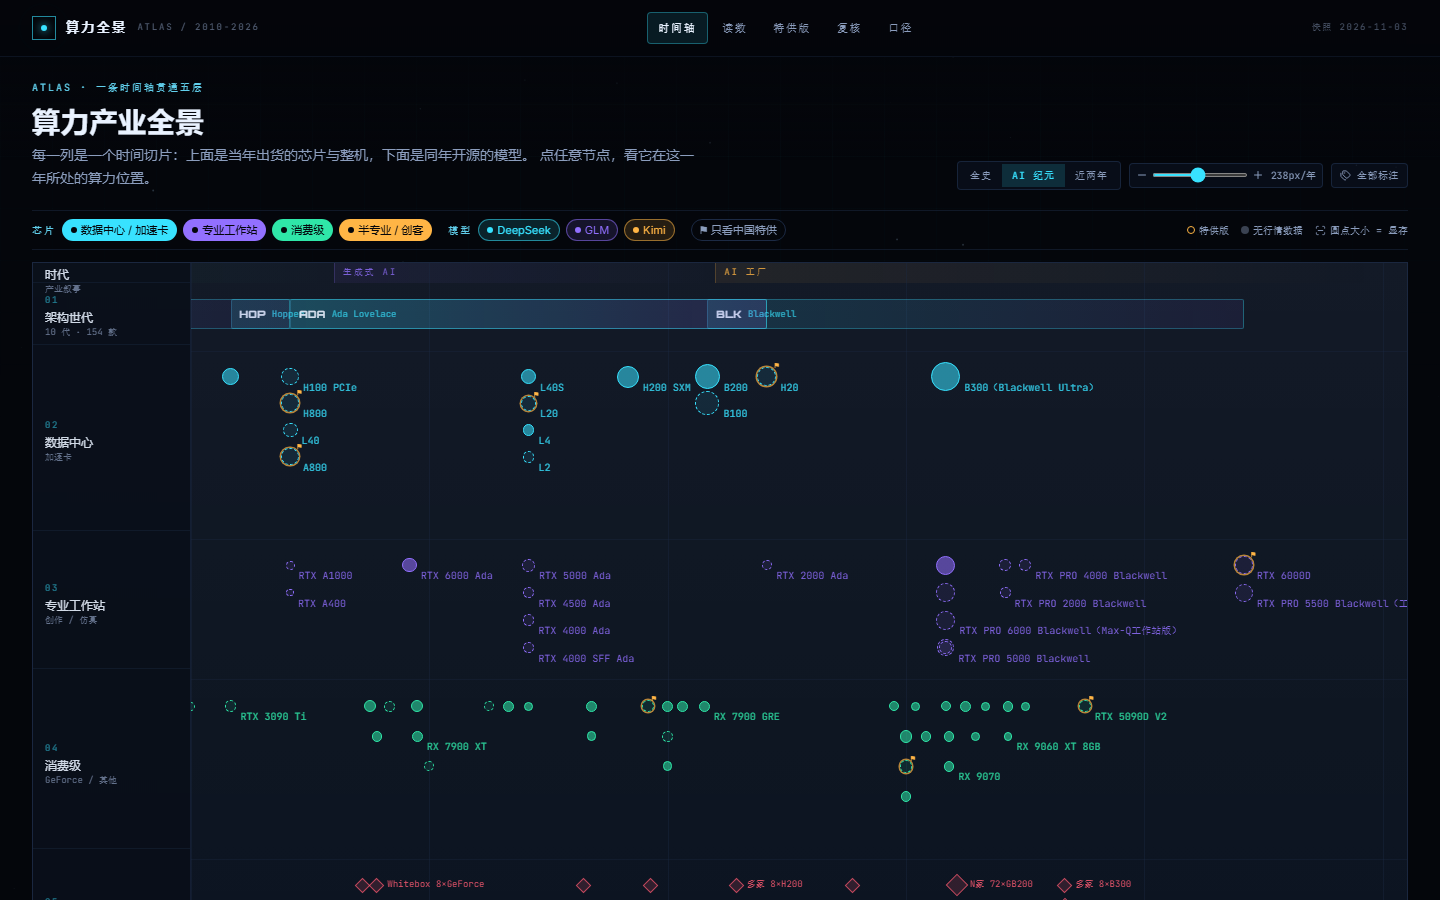
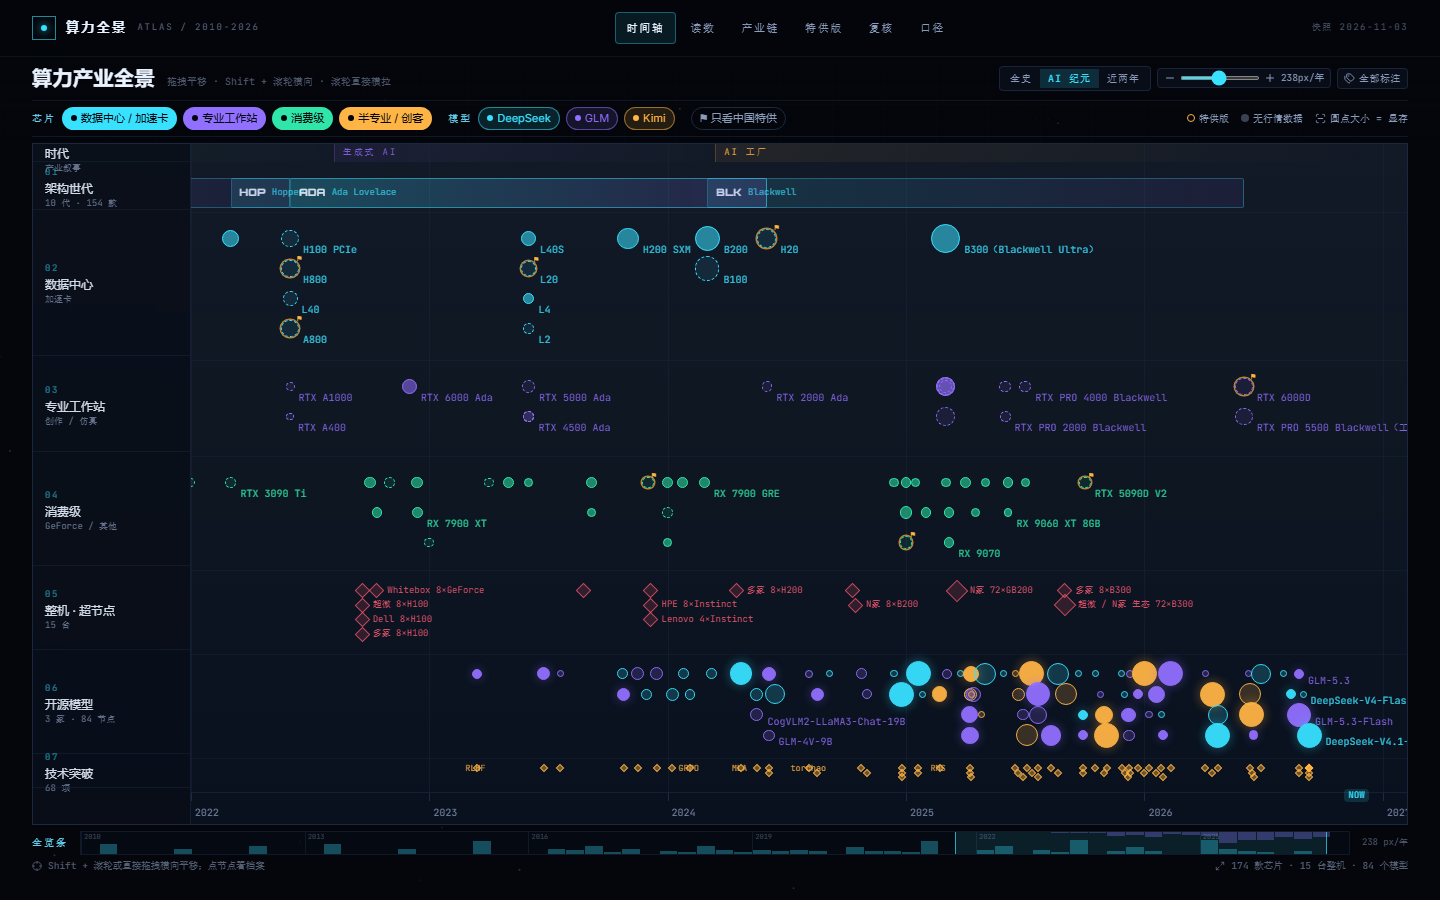
feat(site): 子页去掉页脚；时间轴压到一屏并支持拖拽/Shift+滚轮横移
- Shell：页脚只在封面渲染，各章节以内容收尾
- 时间轴条带高度 966 → 680（era/arch/dc/ws/gc/sys/models/bt/ruler 全部重排），
  表头压成单行，1440x900 下 document.scrollHeight == 900，不需要竖滚
- 横向平移：鼠标拖拽（位移 >4px 才算拖拽，松手吞掉这次 click，避免误开档案）、
  Shift+滚轮、触控板 deltaX；页面本身不可竖滚时普通滚轮也转横向
- 隐藏滚动条的光标改成 grab / grabbing
- 新增 scripts/atlas-pan.mjs：整页高度、滚轮、拖拽、拖拽后不误点、单击仍开档案

diff --git a/src/components/Atlas.tsx b/src/components/Atlas.tsx
@@ -36,17 +36,17 @@ export interface Filters {
 }
 
 const BAND = {
-  era: { top: 0, h: 20 },
-  arch: { top: 24, h: 58 },
-  dc: { top: 88, h: 180 },
-  ws: { top: 276, h: 130 },
-  gc: { top: 416, h: 170 },
-  sys: { top: 596, h: 118 },
-  models: { top: 724, h: 124 },
-  bt: { top: 856, h: 50 },
-  ruler: { top: 914, h: 46 },
+  era: { top: 0, h: 18 },
+  arch: { top: 22, h: 44 },
+  dc: { top: 68, h: 144 },
+  ws: { top: 216, h: 92 },
+  gc: { top: 312, h: 110 },
+  sys: { top: 426, h: 80 },
+  models: { top: 510, h: 100 },
+  bt: { top: 614, h: 30 },
+  ruler: { top: 648, h: 32 },
 }
-const H = 966
+const H = 680
 const MAXR = 15
 
 const ERAS = [
@@ -127,6 +127,9 @@ export function Atlas({
   const [preset, setPreset] = useState<string>('ai')
   const [hover, setHover] = useState<{ x: number; y: number; label: string; sub: string; tone: string } | null>(null)
   const [win, setWin] = useState({ left: 0, width: 1 })
+  const drag = useRef<{ x: number; left: number; moved: boolean } | null>(null)
+  const suppressClick = useRef(false)
+  const [dragging, setDragging] = useState(false)
 
   const plotW = Math.round((DOMAIN[1] - DOMAIN[0]) * ppyear) + 40
 
@@ -163,6 +166,65 @@ export function Atlas({
   useEffect(() => {
     applyPreset('ai')
   }, [applyPreset])
+
+  /**
+   * 横向平移：Shift + 滚轮、触控板横划、以及页面本身不可竖滚时的普通滚轮。
+   * 用非 passive 监听才能 preventDefault，避免同时触发页面滚动。
+   */
+  useEffect(() => {
+    const el = scrollRef.current
+    if (!el) return
+    const onWheel = (e: WheelEvent) => {
+      const max = el.scrollWidth - el.clientWidth
+      if (max <= 0) return
+      const horizontal = Math.abs(e.deltaX) > Math.abs(e.deltaY)
+      const pageScrolls = document.documentElement.scrollHeight > window.innerHeight + 4
+      const wantPan = horizontal || e.shiftKey || !pageScrolls
+      if (!wantPan) return
+      const delta = horizontal ? e.deltaX : e.deltaY
+      if (!delta) return
+      e.preventDefault()
+      el.scrollLeft = clamp(el.scrollLeft + delta, 0, max)
+    }
+    el.addEventListener('wheel', onWheel, { passive: false })
+    return () => el.removeEventListener('wheel', onWheel)
+  }, [])
+
+  /** 按住拖动平移；位移超过 4px 才算拖拽，松手后吞掉这次 click，避免误开档案。 */
+  useEffect(() => {
+    const move = (e: PointerEvent) => {
+      const d = drag.current
+      const el = scrollRef.current
+      if (!d || !el) return
+      const dx = e.clientX - d.x
+      if (!d.moved && Math.abs(dx) > 4) {
+        d.moved = true
+        setDragging(true)
+        setHover(null)
+      }
+      if (!d.moved) return
+      e.preventDefault()
+      el.scrollLeft = clamp(d.left - dx, 0, el.scrollWidth - el.clientWidth)
+    }
+    const end = () => {
+      if (drag.current?.moved) {
+        suppressClick.current = true
+        window.setTimeout(() => {
+          suppressClick.current = false
+        }, 0)
+      }
+      drag.current = null
+      setDragging(false)
+    }
+    window.addEventListener('pointermove', move, { passive: false })
+    window.addEventListener('pointerup', end)
+    window.addEventListener('pointercancel', end)
+    return () => {
+      window.removeEventListener('pointermove', move)
+      window.removeEventListener('pointerup', end)
+      window.removeEventListener('pointercancel', end)
+    }
+  }, [])
 
   /** Overview strip: current window as a fraction of the full 2010—2027 span. */
   const syncWindow = () => {
@@ -218,7 +280,7 @@ export function Atlas({
         BAND.models,
         ppyear,
         (m: Model) => clamp(2.6 + Math.log10((m.paramsB ?? 1) + 1) * 3.1, 3, 11) + (m.tier === 'flagship' ? 1.4 : 0),
-        { maxRows: 5, gap: 3, padTop: 12 },
+        { maxRows: 4, gap: 3, padTop: 10 },
       ),
     [ppyear],
   )
@@ -364,26 +426,24 @@ export function Atlas({
     selectedDate === null ? null : (yearFraction(selectedDate) - DOMAIN[0]) * ppyear
 
   return (
-    <section id="atlas" className="relative mx-auto w-full max-w-[1680px] px-4 pb-10 lg:px-8">
-      <header className="mb-5 flex flex-wrap items-end justify-between gap-4">
-        <div>
-          <div className="label-hud mb-2">ATLAS · 一条时间轴贯通五层</div>
-          <h1 className="font-display text-2xl font-semibold tracking-wide text-snow lg:text-[28px]">
+    <section id="atlas" className="relative mx-auto w-full max-w-[1680px] px-4 pb-2 lg:px-8">
+      <header className="mb-2 flex flex-wrap items-center justify-between gap-x-4 gap-y-2">
+        <div className="flex min-w-0 flex-wrap items-baseline gap-x-3 gap-y-1">
+          <h1 className="font-display text-lg font-semibold tracking-wide text-snow lg:text-xl">
             算力产业全景
           </h1>
-          <p className="mt-1 max-w-2xl text-sm leading-relaxed text-fog">
-            每一列是一个时间切片：上面是当年出货的芯片与整机，下面是同年开源的模型。
-            点任意节点，看它在这一年所处的算力位置。
-          </p>
+          <span className="hidden font-mono text-[10px] text-fog/55 md:inline">
+            拖拽平移 · Shift + 滚轮横向 · 滚轮直接横拉
+          </span>
         </div>
-        <div className="flex flex-wrap items-center gap-2">
+        <div className="flex flex-wrap items-center gap-1.5">
           <div className="flex rounded-sm border border-edge/80 bg-hull/60 p-0.5">
             {PRESETS.map((p) => (
               <button
                 key={p.id}
                 onClick={() => applyPreset(p.id)}
                 className={cn(
-                  'px-2.5 py-1 font-mono text-[10px] tracking-widest transition-colors',
+                  'px-2 py-0.5 font-mono text-[10px] tracking-widest transition-colors',
                   preset === p.id ? 'bg-cyan/15 text-cyan' : 'text-fog hover:text-snow',
                 )}
               >
@@ -391,7 +451,7 @@ export function Atlas({
               </button>
             ))}
           </div>
-          <div className="flex items-center gap-1 rounded-sm border border-edge/80 bg-hull/60 px-1.5 py-1">
+          <div className="flex items-center gap-1 rounded-sm border border-edge/80 bg-hull/60 px-1.5 py-0.5">
             <button
               aria-label="缩小时间轴"
               onClick={() => zoomTo(ppyear / 1.35)}
@@ -406,7 +466,7 @@ export function Atlas({
               max={460}
               value={Math.round(ppyear)}
               onChange={(e) => zoomTo(Number(e.target.value))}
-              className="h-1 w-24 accent-cyan"
+              className="h-1 w-20 accent-cyan"
             />
             <button
               aria-label="放大时间轴"
@@ -415,12 +475,12 @@ export function Atlas({
             >
               <Plus size={12} />
             </button>
-            <span className="num w-12 text-right text-[10px] text-fog">{Math.round(ppyear)}px/年</span>
+            <span className="num w-11 text-right text-[9.5px] text-fog">{Math.round(ppyear)}px/年</span>
           </div>
           <button
             onClick={() => setFilters({ ...filters, labels: !filters.labels })}
             className={cn(
-              'flex items-center gap-1.5 rounded-sm border px-2 py-1 font-mono text-[10px] tracking-wider transition-colors',
+              'flex items-center gap-1 rounded-sm border px-1.5 py-0.5 font-mono text-[10px] tracking-wider transition-colors',
               filters.labels
                 ? 'border-cyan/60 bg-cyan/10 text-cyan'
                 : 'border-edge/80 bg-hull/60 text-fog hover:text-snow',
@@ -432,7 +492,7 @@ export function Atlas({
       </header>
 
       {/* filter bar */}
-      <div className="mb-3 flex flex-wrap items-center gap-x-4 gap-y-2 border-y border-edge/50 py-2">
+      <div className="mb-1.5 flex flex-wrap items-center gap-x-4 gap-y-1.5 border-y border-edge/50 py-1.5">
         <div className="flex items-center gap-1.5">
           <span className="label-hud">芯片</span>
           {(Object.keys(TIER_META) as Tier[]).filter((t) => t !== 'other').map((t) => {
@@ -547,7 +607,22 @@ export function Atlas({
         {/* scrollable plot */}
         <div
           ref={scrollRef}
-          className="no-bar relative flex-1 overflow-x-auto overflow-y-hidden"
+          className={cn(
+            'no-bar relative flex-1 overflow-x-auto overflow-y-hidden',
+            dragging ? 'cursor-grabbing select-none' : 'cursor-grab',
+          )}
+          onPointerDown={(e) => {
+            const el = scrollRef.current
+            if (!el || e.pointerType !== 'mouse' || e.button !== 0) return
+            if (el.scrollWidth <= el.clientWidth + 2) return
+            drag.current = { x: e.clientX, left: el.scrollLeft, moved: false }
+          }}
+          onClickCapture={(e) => {
+            if (!suppressClick.current) return
+            suppressClick.current = false
+            e.preventDefault()
+            e.stopPropagation()
+          }}
           onMouseLeave={() => setHover(null)}
           onScroll={syncWindow}
         >
@@ -878,10 +953,10 @@ export function Atlas({
         </div>
       </div>
 
-      <div className="mt-2 flex items-center gap-3">
+      <div className="mt-1.5 flex items-center gap-3">
         <span className="label-hud hidden shrink-0 sm:block">全览条</span>
         <div
-          className="group relative h-7 flex-1 cursor-crosshair overflow-hidden border border-edge/50 bg-abyss/60"
+          className="group relative h-6 flex-1 cursor-crosshair overflow-hidden border border-edge/50 bg-abyss/60"
           onClick={jumpTo}
           role="presentation"
           title="点击跳到对应年份"
@@ -925,13 +1000,13 @@ export function Atlas({
         </span>
       </div>
 
-      <div className="mt-2 flex flex-wrap items-center justify-between gap-2 font-mono text-[10px] text-fog/70">
+      <div className="mt-1 flex flex-wrap items-center justify-between gap-2 font-mono text-[9.5px] text-fog/60">
         <span className="flex items-center gap-1.5">
-          <Crosshair size={11} /> 时间轴横向滚动；节点可点击，右侧看档案
+          <Crosshair size={10} /> Shift + 滚轮或直接拖拽横向平移；点节点看档案
         </span>
         <span className="flex items-center gap-1.5">
-          <Maximize2 size={11} /> 共 {atlas.products.length + atlas.extras.length} 款芯片 · {atlas.servers.length} 台整机 ·{' '}
-          {atlas.models.length} 个模型
+          <Maximize2 size={10} /> {atlas.products.length + atlas.extras.length} 款芯片 ·{' '}
+          {atlas.servers.length} 台整机 · {atlas.models.length} 个模型
         </span>
       </div>
 

diff --git a/src/pages/Timeline.tsx b/src/pages/Timeline.tsx
@@ -2,10 +2,12 @@ import { useEffect, useState } from 'react'
 
 import { Atlas, type Filters, type Selection } from '../components/Atlas'
 import { DetailPanel } from '../components/DetailPanel'
-import { Reveal } from '../components/motion'
 import { atlas, type Tier } from '../lib/atlas'
-import { Link } from '../lib/router'
 
+/**
+ * 时间轴章节：整页控制在一屏内（1440x900 不需要竖向滚动），
+ * 横向平移交给 Shift+滚轮 / 拖拽 / 触控板横划；子页面不设页脚。
+ */
 export function TimelinePage() {
   const [selection, setSelection] = useState<Selection>(null)
   const [filters, setFilters] = useState<Filters>({
@@ -24,25 +26,9 @@ export function TimelinePage() {
   }, [])
 
   return (
-    <div className="pt-6">
+    <div className="pt-2">
       <Atlas selection={selection} onSelect={setSelection} filters={filters} setFilters={setFilters} />
       <DetailPanel selection={selection} onSelect={setSelection} onClose={() => setSelection(null)} />
-
-      <Reveal className="mx-auto mt-4 max-w-[1680px] px-4 lg:px-8">
-        <div className="flex flex-wrap items-center justify-between gap-3 border-t border-edge/40 pt-5">
-          <p className="max-w-lg font-mono text-[10px] leading-relaxed text-fog/50">
-            圆点大小 = 单卡显存；实心 = 有行情/性能数据；空心虚线 = 仅文档收录。缩放滑杆控制每年占宽，
-            「全部标注」强制显示所有标签。
-          </p>
-          <Link
-            to="/charts"
-            className="group flex items-center gap-2 border border-edge px-3 py-2 font-mono text-[10px] tracking-[0.14em] text-fog transition-colors hover:border-cyan/40 hover:text-cyan active:scale-[0.98]"
-          >
-            下一章：四条读数
-            <span className="transition-transform group-hover:translate-x-0.5">→</span>
-          </Link>
-        </div>
-      </Reveal>
     </div>
   )
 }

diff --git a/src/components/Shell.tsx b/src/components/Shell.tsx
@@ -248,7 +248,7 @@ export function Shell({ children }: { children: React.ReactNode }) {
       <SiteHeader path={path} />
 
       <main className="relative z-10 pt-14">{children}</main>
-      <SiteFooter />
+      {path === '/' ? <SiteFooter /> : <div className="h-2" />}
     </div>
   )
 }

diff --git a/README.md b/README.md
@@ -126,7 +126,7 @@ scripts/
 | 路径 | 章节 | 内容 |
 | --- | --- | --- |
 | `/` | 封面 | 一句话定位、五层结构、章节入口、复核进展 |
-| `/atlas` | 时间轴 | 五层内容一条横轴，点节点开档案（缩放 / 筛选 / 全览条） |
+| `/atlas` | 时间轴 | 五层内容一条横轴，整页一屏（1440×900 无需竖滚）；拖拽或 Shift+滚轮横向平移，点节点开档案 |
 | `/charts` | 读数 | 代际跃迁、单位算力价格、模型与显存共振 |
 | `/stack` | 产业链 | 存储 / 互联 / 供电散热 / 制程 / 集群五个维度，每条带来源 |
 | `/export` | 特供版 | 8 款中国特供与其削减点 |
@@ -134,6 +134,8 @@ scripts/
 | `/about` | 口径 | 三份来源、字段定义、可信度与文本版入口 |
 
 路由是手写的 pushState（`src/lib/router.tsx`），不引 router 依赖：`Link` 保留真实 href（新窗口 / 爬虫可用），左键单击走无刷新跳转；`build` 后每个路径都有实体 HTML，深链返回 200。转场由 `AnimatePresence` 统一进出场，只用 transform / opacity，且全部走 `useReducedMotion` 降级。
+
+页脚只在封面出现，各章节以内容收尾。时间轴页按「工具」而非「文章」设计：条带高度压到 680px，整页刚好一屏；横向平移支持鼠标拖拽、Shift+滚轮、触控板横划，页面本身不需要竖滚时普通滚轮也直接横拉（拖拽超过 4px 会吞掉那次 click，避免误开档案）。
 
 ## 怎么读
 
